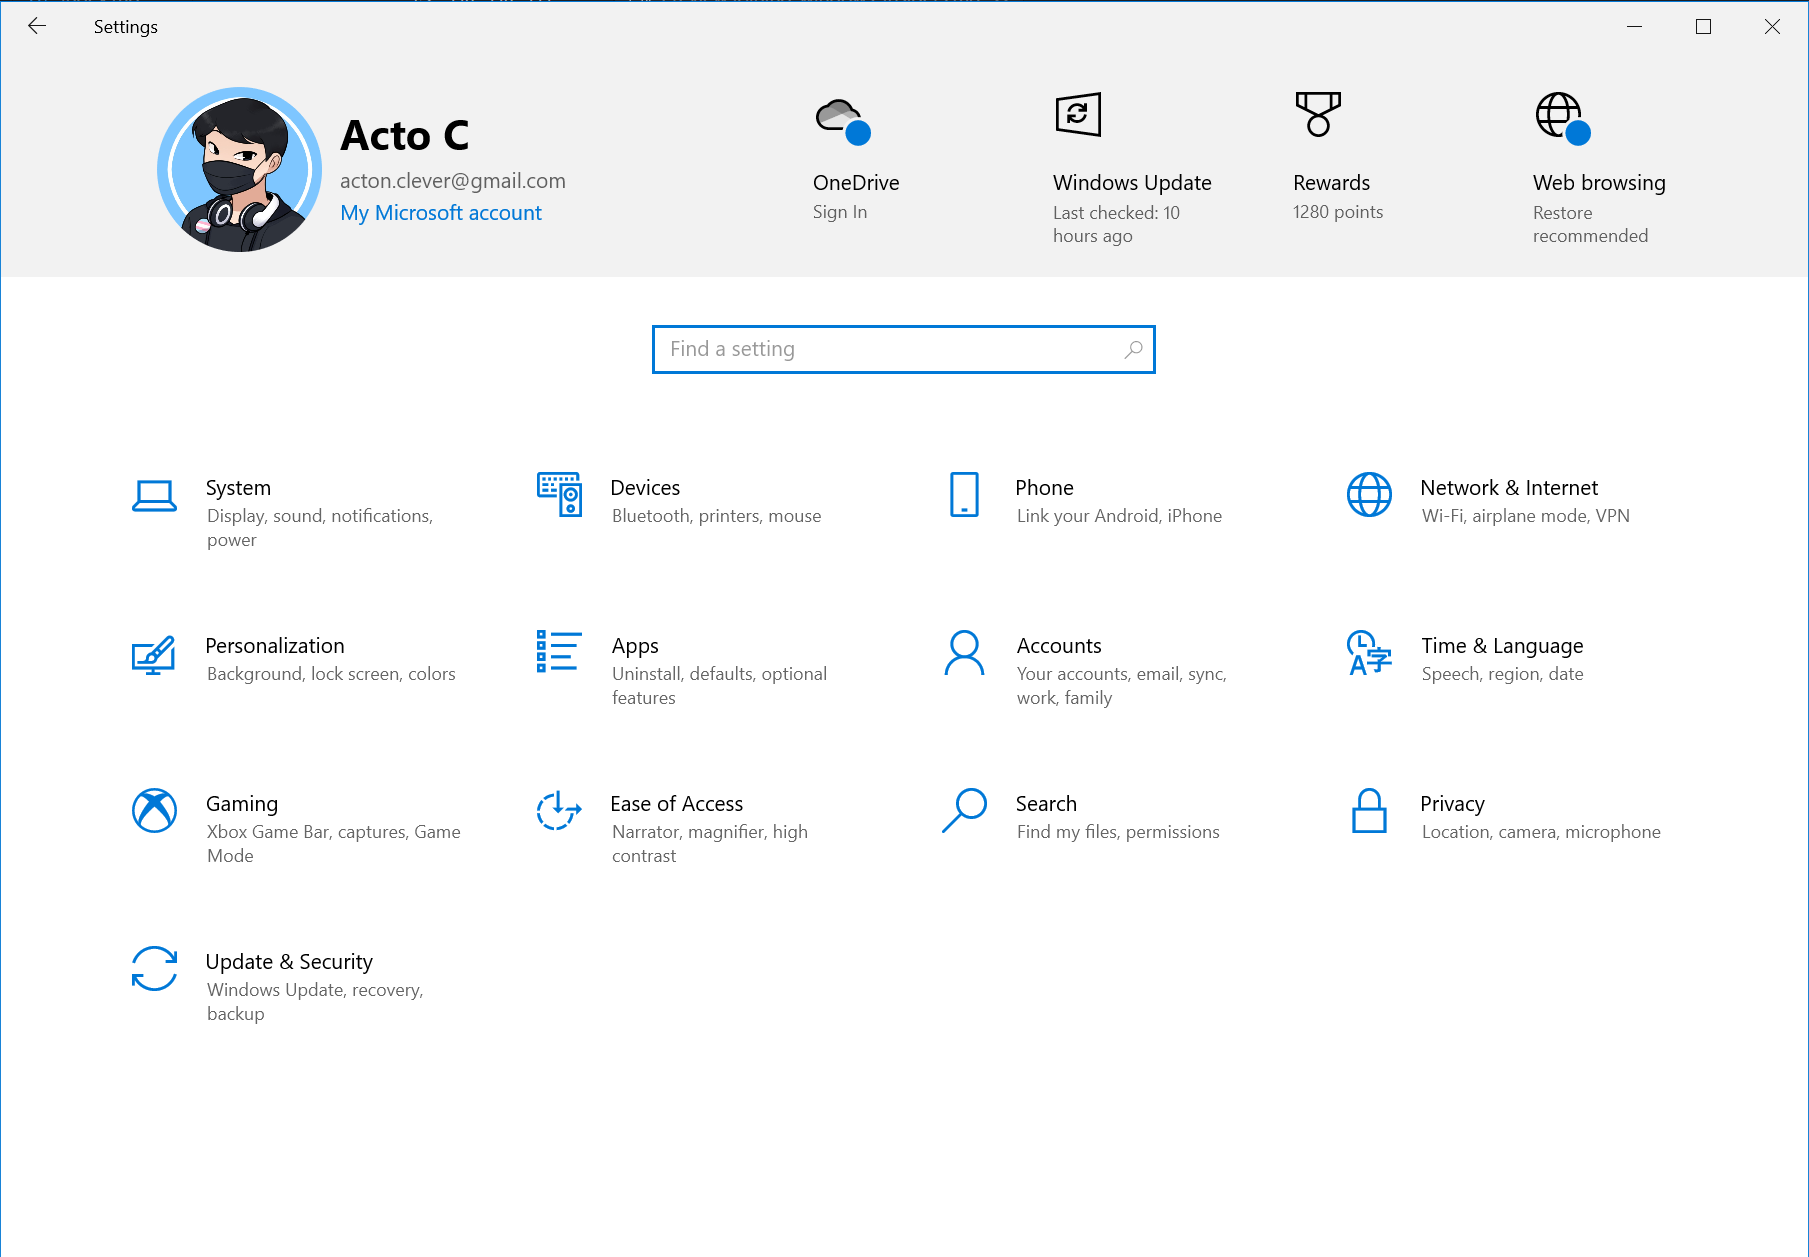
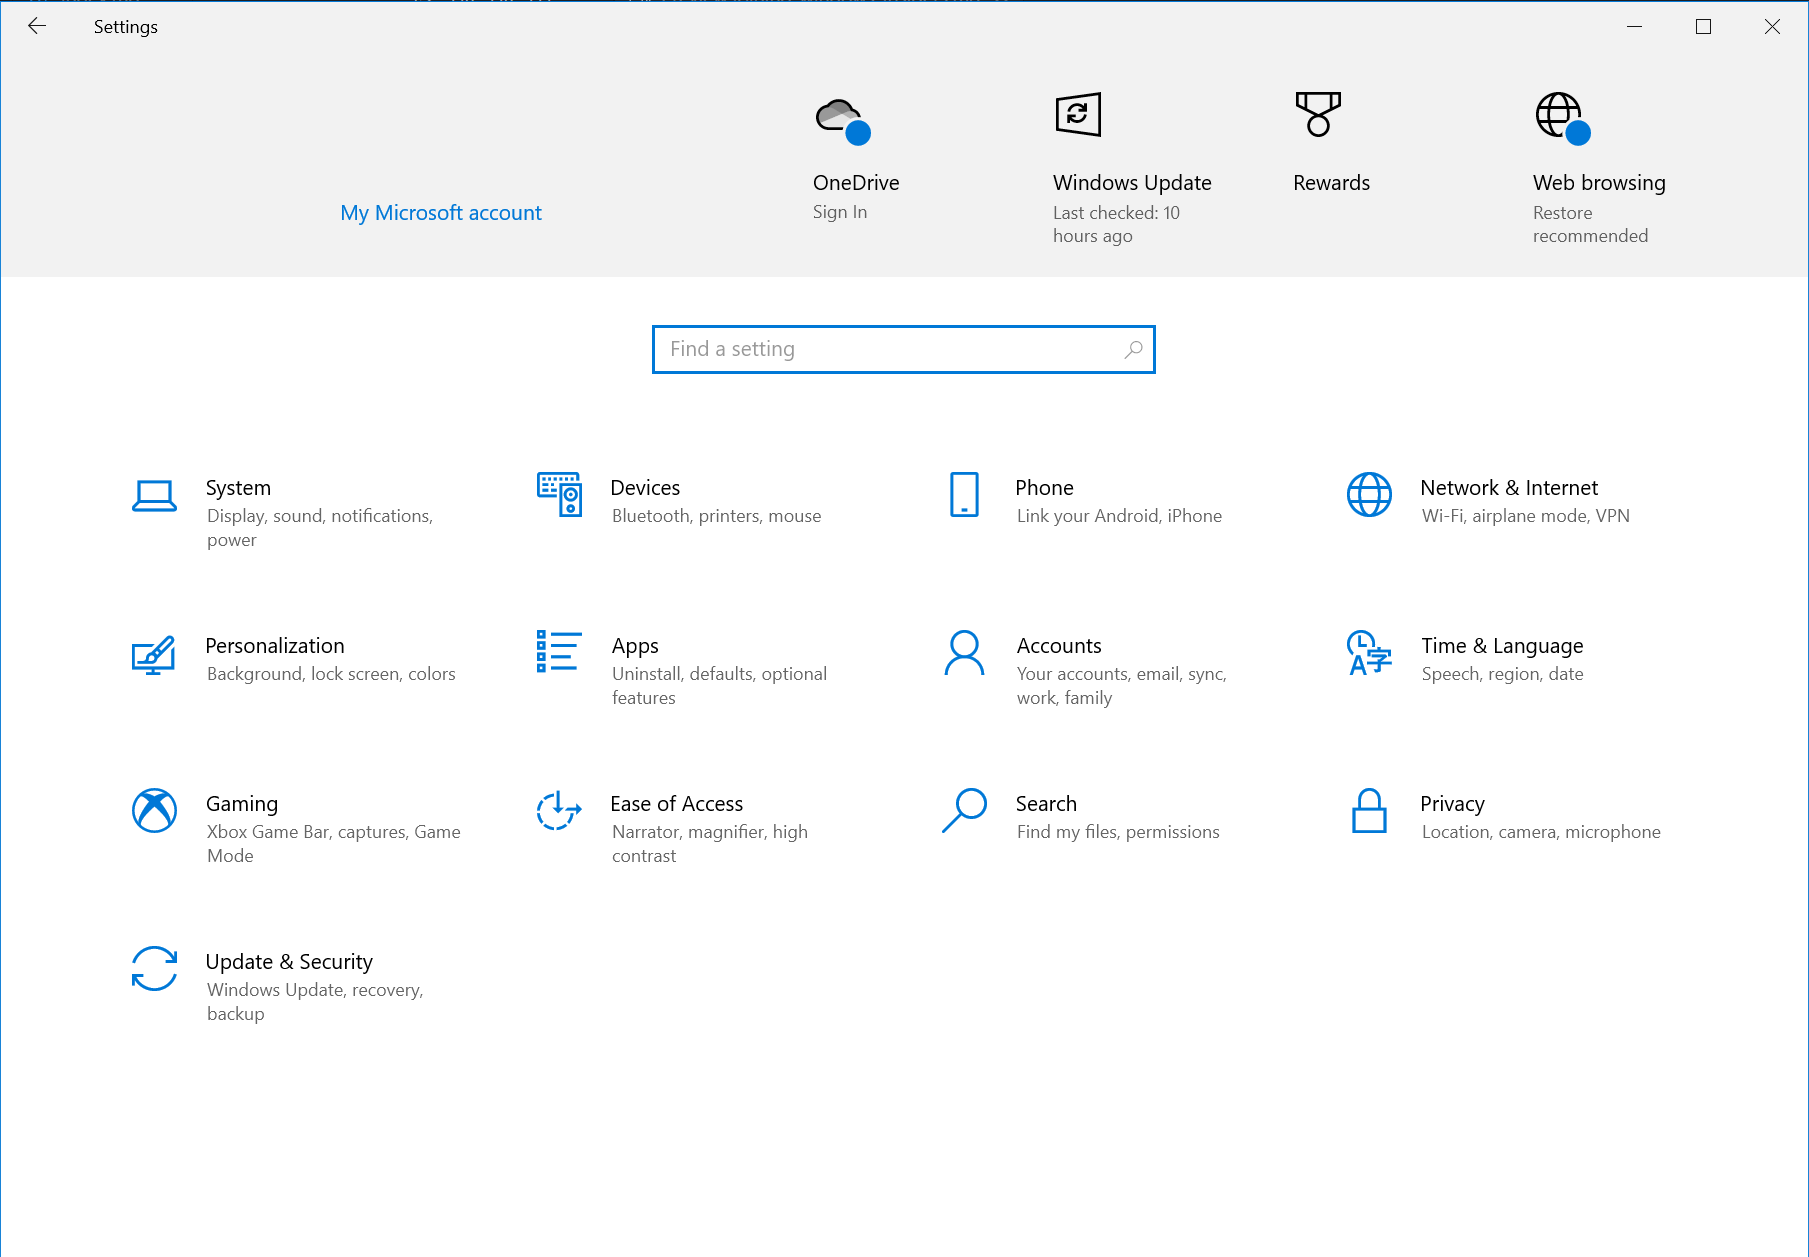
Update Links and Remove personal info (#151)
* Update Links and Remove personal inf

* Update mod/docs/index.md

---------

Changed region(s): [[0.0619, 0.0621, 0.3096, 0.2172], [0.712, 0.1551, 0.743, 0.1862]]

diff --git a/mod/docs/index.md b/mod/docs/index.md
@@ -4,7 +4,7 @@
 |----------------------------------------------------------------------------------------------|-----------------------------------------------------------------------|-----------------------------------------------------------------------------------------------------------------------------------------|
 | Tier 1 (Regular)                                                                             | MEE6 Level 3                                                          | Can send embedded messages in all channels, can send messages in #deal-alerts                                                            |
 | Tier 2 (Regularly regular)                                                                   | MEE6 Level 10                                                         | Access to #giveaways                                                                                                     |
-| Tier 3 (Superbly regularly regular)                                                          | MEE6 Level 20                                                         | Can "Go Live" in a voice channel, access to #lounge                                                                                     |
+| Tier 3 (Superbly regularly regular)                                                          | MEE6 Level 20                                                         | Can screenshare or stream in a voice channel, access to #lounge                                                                                     |
 | Tier 4 (Ludicrously superbly regularly regular)                                              | MEE6 Level 30                                                         | Unlocks !remindme (Use responsibly and appropriately)                                                                                                                      |
 | Tier 5 (Uber regular)                                                                        | MEE6 Level 45                                                         | Unlocks !no (Use responsibly and appropriately)                                                                                                                     |
 | Tier 6 (Hyper uber regular)                                                                  | MEE6 Level 55                                                         | Can manage messages in #deal-alerts                                                                                                 |
@@ -19,14 +19,14 @@
 | Seasonal Logos Contributor                                                                   | Have a lot of your server logo designs used                           | Decorative                                                                                                                      |
 | Community Website/Wiki Contributor                                                           | Contribute to the Community Website, Wiki                             | Provides a private channel - #gh-msft-chat-feed                                                                                          |
 | Giveaways boss                                                                               | Host loads of awesome giveaways in #giveaways                         | Decorative                                                                                                                      |
-| Muted                                                                                        | Break rules or ask nicely                                             | Cannot talk anywhere in the server                                                                                                     |
+| Muted                                                                                        | Break rules or ask nicely                                             | Cannot talk anywhere in the server or join Voice Channels                                                                                              |
 | Trial moderators                                                                             | Apply for moderator position and be accepted                          | Access to moderator permissions; cannot ban or kick                                                                                    |
 | Moderators                                                                                   | Be a good Trial moderator for a while                                 | Access to moderator permissions                                                                                                        |
 | Lead moderators                                                                              | Be a very good moderator for a very long time and have Kirby love you | Access to administrator permissions                                                                                                    |
 | /r/Windows moderator                                                                         | Be a moderator on /r/Windows                                          | Decorative                                                                                                                      |
 | /r/Surface moderator                                                                         | Be a moderator on /r/Surface                                          | Decorative                                                                                                                      |
 | /r/MicrosoftTeams moderator                                                                  | Be a moderator on /r/MicrosoftTeams                                   | Decorative                                                                                                                      |
-| 💌 Moderator's mail                                                                          | Be the modmail bot                                                    | Decorative                                                                                                                      |
+| 💌 Moderator's mail                                                                          | Be the modmail bot                                                    | Hoisted in sidebar                                                                                                   |
 | 🌟 Microsoft employees                                                                       | Verify in #employee-verification                                   | Access to #msft-chat                                                                                                                   |
 | Alumni Microsoft employees                                                                   | Stop being a Microsoft employee                                       | Decorative                                                                                                                      |
 | Alumni moderator                                                                             | Stop being a moderator                                                | Decorative                                                                                                                      |

diff --git a/about/contributors.md b/about/contributors.md
@@ -4,12 +4,13 @@ sidebar: false
 
 ## Website contributors
 * Initial website content foundation by [Molly](https://github.com/mollymilllions)
-* General website maintenance, feature additions by Jaska, [Erisa](https://github.com/Erisa) and Kirby
-* Information for members facing documentation by Torch
-* Hero image of [Bit the Developer Advocate Mascot](https://github.com/ashleymcnamara/Developer-Advocate-Bit) by [Ashley McNamara](http://www.ashleymcnamara.com) licensed under [CC BY-NC-SA 4.0](https://creativecommons.org/licenses/by-nc-sa/4.0/)
+* General website maintenance, feature additions by [Jaska](https://github.com/Jasius), [Erisa](https://github.com/Erisa) and [Kirby](https://github.com/dAKirby309)
+* Information for members facing documentation by [Torch](https://github.com/TorchGM)
+* Hero image of [Bit the Developer Advocate Mascot](https://github.com/ashleymcnamara/Developer-Advocate-Bit) by [Ashley McNamara](https://www.ashley.dev/) licensed under [CC BY-NC-SA 4.0](https://creativecommons.org/licenses/by-nc-sa/4.0/)
 
 ## Community contributors
-* Seasonal, occassion/events based logos provided by Torch
-* Informational technical support documentation provided by Shoreditch
+* Seasonal, occassion/events based logos provided by [Torch](https://github.com/TorchGM)
+* Informational technical support documentation provided by [Shoreditch](https://github.com/0xShoreditch)
 * Some Wiki entries and cleanup fixes by [waitwhatActo](https://github.com/waitwhatActo)
-* Some Wiki entries by [Cutechri](https://github.com/CuteCry)
+* Some Wiki entires and cleanup fixes by [itsWindows11](https://github.com/itsWindows11)
+* Some Wiki entries by [Crylune](https://github.com/Crylune)
